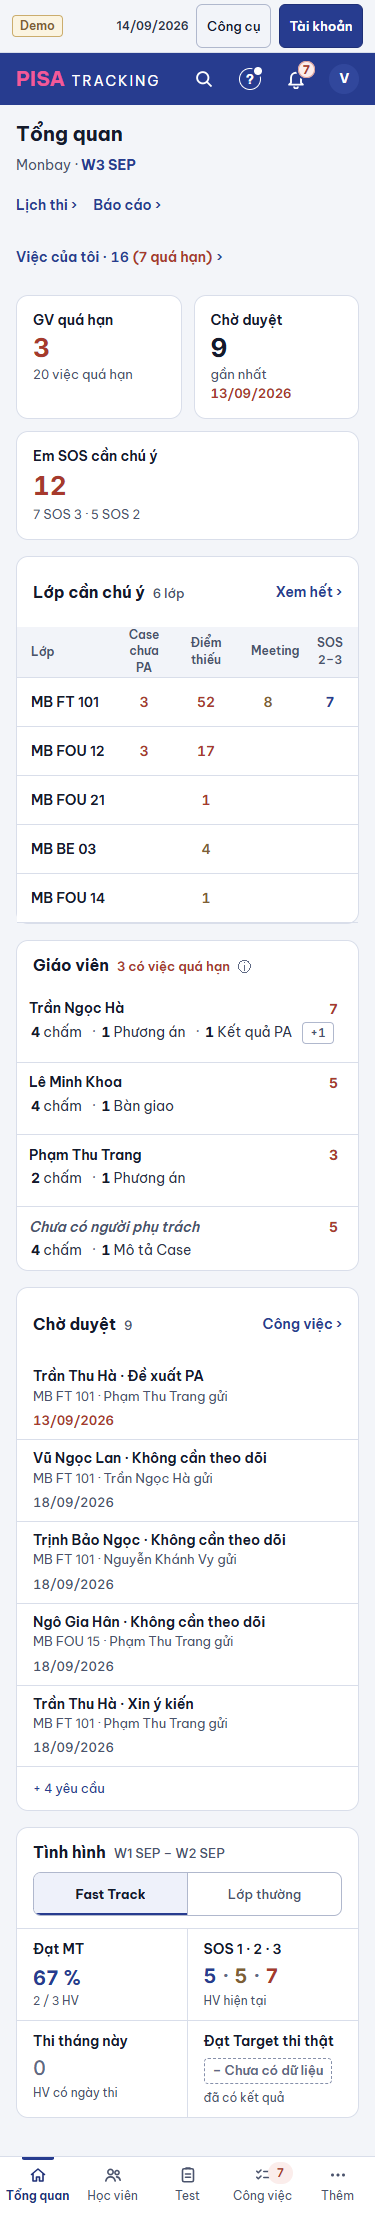
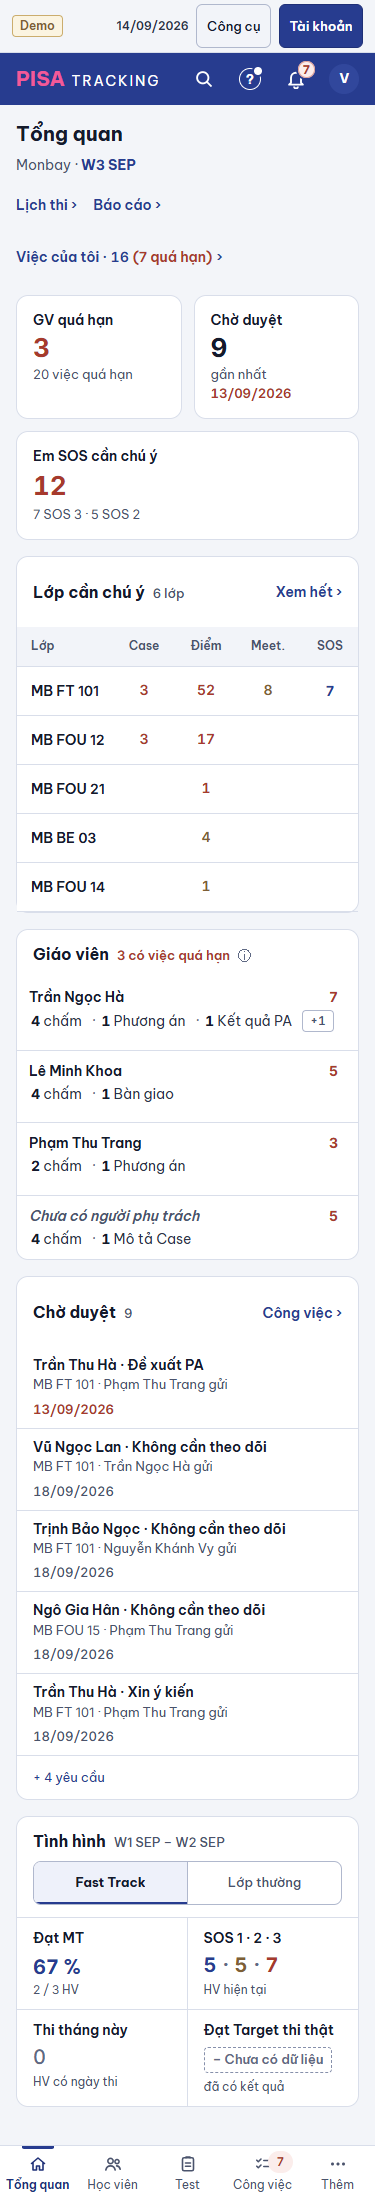
Tổng quan 375: đầu cột Lớp cần chú ý nhãn ngắn một dòng

diff --git a/web/src/modules/worklist/TongQuanVai.tsx b/web/src/modules/worklist/TongQuanVai.tsx
@@ -17,6 +17,7 @@ import { PanelViec } from '../congViec/PanelViec.tsx';
 import { TheYeuCau } from '../duyet/TheYeuCau.tsx';
 import type { WorkItem } from './WorkList.tsx';
 import { PhanTram, ChuaCoDl, kyChu, thamSoTq, type TongQuanV5Data } from './TongQuanV5.tsx';
+import { useDienThoai } from '../../ui/TheDong.tsx';
 import {
   laViec, mucHan, ngay, tenMonNgan, tuanLich, loaiTq, maTranLop, nhanLoaiTq, nhomTheoGv, quaHanCuaGv, tabCuaViec, type CotLop, type HangLop, type TheYeuCauDto,
 } from '@shared/domain/index.ts';
@@ -205,6 +206,8 @@ function KhoiGiaoVien({ quaHan, tenCn, onMo }: { quaHan: Dong[]; tenCn: ((id: nu
 
 /* ───────────── Lớp cần chú ý — ma trận C ───────────── */
 
+/** < 640 px: đầu cột một dòng (tên đủ ở `title` của đầu cột, `goiY`). */
+const NHAN_NGAN: Record<CotLop | 'sos', string> = { case: 'Case', diem: t('Điểm'), meeting: 'Meet.', bcph: 'BCPH', sos: 'SOS' };
 const NHAN_COT: Record<CotLop | 'sos', string> = { case: t('Case chưa PA'), diem: t('Điểm thiếu'), meeting: 'Meeting', bcph: t('Báo cáo PH'), sos: t('SOS 2–3') };
 /* Meeting: số ở ô = số VIỆC (mỗi việc là một phần meeting của lớp, có nhiều em) — ghi "em" làm ô "4 em" lệch 4 dòng việc (4 + 6 + 8 + 3 em). */
 const DON_VI: Record<CotLop, (n: number) => string> = { case: (n) => t('{n} em', { n }), diem: (n) => t('{n} bài', { n }), meeting: (n) => t('{n} việc', { n }), bcph: (n) => t('{n} việc', { n }) };
@@ -228,6 +231,7 @@ function OMaTran({ o, cot, lop, onBam }: { o: HangLop<Dong>['o'][CotLop]; cot: C
 function LopCanChuYC({ hang, cot, sos, onMo, xemHet }: { hang: HangLop<Dong>[]; cot: readonly CotLop[]; sos?: Map<number, { n: number; ids: number[] }>;
   onMo: (p: MoPanel) => void; xemHet: string }) {
   const ds = hang.slice(0, TOI_DA_LOP);
+  const dt = useDienThoai();
   const moO = (h: HangLop<Dong>, c: CotLop) => onMo({
     tieuDe: `${h.classCode} · ${NHAN_COT[c]}`, phu: DON_VI[c](h.o[c]!.so || h.o[c]!.viec.length),
     nhom: [{ khoa: `${h.classId}:${c}`, ten: h.classCode, viec: h.o[c]!.viec }],
@@ -241,8 +245,8 @@ function LopCanChuYC({ hang, cot, sos, onMo, xemHet }: { hang: HangLop<Dong>[]; 
         <div data-hd="tq-lop-chu-y" className="max-sm:[&_th]:whitespace-normal max-sm:[&_th]:text-xs [&_td]:py-1.5">
           {/* Mockup C: 375 GIỮ ma trận (không thành thẻ) — `the375={false}`; độ rộng cơ sở vừa 375 (96 + 4 × 62), ≥ 640 phần dư chia theo tỉ lệ (`deu`). */}
           <Bang ten={t('Lớp cần chú ý')} khung={false} the375={false} deu hang={ds} khoa={(h) => h.classId}
-            cot={[{ key: 'lop', nhan: t('Lớp'), kieu: 'ten', rong: 96 }, ...cot.map((c) => ({ key: c, nhan: NHAN_COT[c], kieu: 'so' as const, rong: 62 })),
-              ...(sos ? [{ key: 'sos', nhan: NHAN_COT.sos.replace('–', '–'), kieu: 'so' as const, rong: 62 }] : [])]}
+            cot={[{ key: 'lop', nhan: t('Lớp'), kieu: 'ten', rong: 96 }, ...cot.map((c) => ({ key: c, nhan: dt ? NHAN_NGAN[c] : NHAN_COT[c], goiY: NHAN_COT[c], kieu: 'so' as const, rong: 62 })),
+              ...(sos ? [{ key: 'sos', nhan: dt ? NHAN_NGAN.sos : NHAN_COT.sos.replace('–', '–'), goiY: NHAN_COT.sos, kieu: 'so' as const, rong: 62 }] : [])]}
             oCua={(h, c) => {
               if (c.key === 'lop') return <Link to={`/hoc-vien/lop/${h.classId}`} className="ten-ho-so whitespace-nowrap font-semibold">{h.classCode}</Link>;
               if (c.key === 'sos') { const x = sos?.get(h.classId); return x?.n ? <OSo giaTri={x.n} tieuDe={`${t('SOS 2–3')} · ${h.classCode}`} nguon={`/tong-quan/chi-nhanh/sos23?ids=${x.ids.join(',')}`} className="so-chinh text-sm font-semibold" /> : null; }
